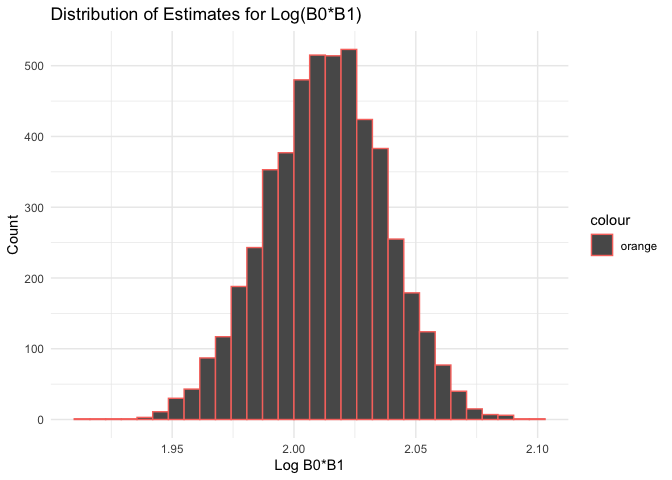
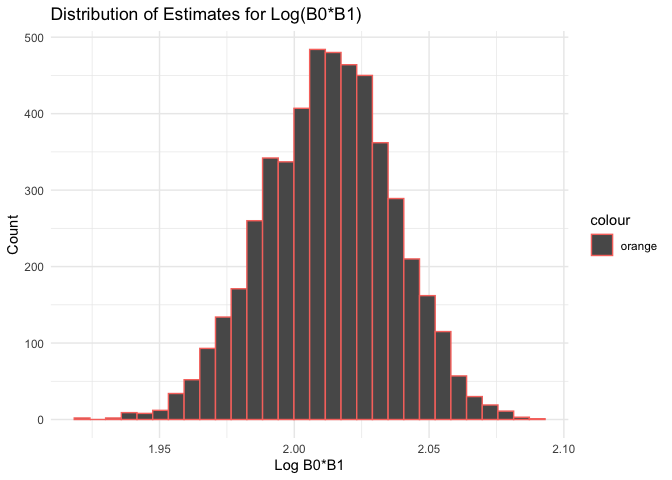
knit

diff --git a/hw6_jo2570.md b/hw6_jo2570.md
@@ -299,16 +299,16 @@ bootstrap_results
     ## # A tibble: 5,000 x 2
     ##    strap_number   log
     ##           <int> <dbl>
-    ##  1            1  2.03
-    ##  2            2  2.02
-    ##  3            3  2.01
+    ##  1            1  2.02
+    ##  2            2  2.04
+    ##  3            3  2.02
     ##  4            4  2.01
-    ##  5            5  2.01
-    ##  6            6  2.03
+    ##  5            5  1.97
+    ##  6            6  2.02
     ##  7            7  2.01
-    ##  8            8  2.03
+    ##  8            8  2.02
     ##  9            9  2.01
-    ## 10           10  1.98
+    ## 10           10  2.00
     ## # … with 4,990 more rows
 
 Estimating R sq. :
@@ -329,16 +329,16 @@ bootstrap_results_2
     ## # A tibble: 5,000 x 3
     ##    strap_number r.squared adj.r.squared
     ##           <int>     <dbl>         <dbl>
-    ##  1            1     0.909         0.909
-    ##  2            2     0.910         0.909
-    ##  3            3     0.902         0.901
-    ##  4            4     0.905         0.905
-    ##  5            5     0.904         0.904
-    ##  6            6     0.914         0.913
-    ##  7            7     0.909         0.909
-    ##  8            8     0.894         0.893
-    ##  9            9     0.908         0.908
-    ## 10           10     0.913         0.913
+    ##  1            1     0.914         0.914
+    ##  2            2     0.916         0.916
+    ##  3            3     0.913         0.913
+    ##  4            4     0.913         0.912
+    ##  5            5     0.914         0.913
+    ##  6            6     0.896         0.896
+    ##  7            7     0.905         0.905
+    ##  8            8     0.904         0.903
+    ##  9            9     0.915         0.915
+    ## 10           10     0.916         0.916
     ## # … with 4,990 more rows
 
 PLotting the distribution of log(B0\*B1) and R-Squared estimates:
@@ -393,7 +393,7 @@ quantile(., probs = c(0.025, 0.975), na.rm = TRUE)
 ```
 
     ##     2.5%    97.5% 
-    ## 1.965107 2.058929
+    ## 1.965549 2.057890
 
 ``` r
 bootstrap_results_2 %>% 
@@ -402,7 +402,7 @@ quantile(., probs = c(0.025, 0.975), na.rm = TRUE)
 ```
 
     ##      2.5%     97.5% 
-    ## 0.8943659 0.9272833
+    ## 0.8937095 0.9275335
 
 The 95% CI for log(b0\*b1) = (1.966, 2.059) and the 95% confidence
 interval for R-squared = (0.894, 0.927)
